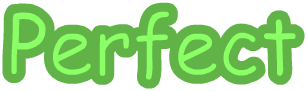
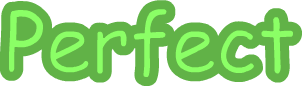
added perfect/great text

diff --git a/Assets/Scripts/BlockBehavior.cs b/Assets/Scripts/BlockBehavior.cs
@@ -32,6 +32,21 @@ public class BlockBehavior : MonoBehaviour {
 	/// </summary>
 	public float ok_distance = .5f;
 
+	/// <summary>
+	/// Manager gameobject, use to access ManageCoroutines Script
+	/// </summary>
+	private GameObject manager;
+
+	/// <summary>
+	/// boolean to see if greatText need to be displayed, default false
+	/// </summary>
+	public static bool displayPerfect;
+
+	/// <summary>
+	/// boolean to see if greatText need to be displayed, default false
+	/// </summary>
+	public static bool displayGreat;
+
     /// <summary>
     /// hide the block when it falls off the bottom
     /// </summary>
@@ -43,7 +58,6 @@ public class BlockBehavior : MonoBehaviour {
             Combo.resetCombo();
             Destroy(this.gameObject);
             Debug.Log(Combo.combo);
-            //  this.gameObject.SetActive(false);
         }
     }
 
@@ -55,6 +69,7 @@ public class BlockBehavior : MonoBehaviour {
 	void Start () {
 		blocks = GameObject.FindGameObjectsWithTag("Block");
 		collider = GetComponent<BoxCollider2D>();
+		manager = GameObject.FindGameObjectWithTag("Manager");
 
 	}
 
@@ -75,30 +90,29 @@ public class BlockBehavior : MonoBehaviour {
 					float distance = calculateDistance(block);
 
                     if (distance <= perfect_distance)
-                    {
-                        Debug.Log("Perfect " + distance);
+                    {                        
+						manager.GetComponent<ManageCoroutines>().setBlockPos(gameObject.transform);
+						displayPerfect = true;
+
                         Combo.combo++;
                         CurrentScore.currentScore = CurrentScore.currentScore + (Combo.combo * 2);
                         Destroy(this.gameObject);
                         Destroy(block.gameObject);
-                        Debug.Log(Combo.combo);
-
                     }
                     else if (distance <= great_distance)
-                    {
-                        Debug.Log("Great " + distance);
+                    {                        
+						manager.GetComponent<ManageCoroutines>().setBlockPos(gameObject.transform);
+						Debug.Log("hhi");
+						displayGreat = true;
+
                         Combo.combo++;
                         CurrentScore.currentScore = CurrentScore.currentScore + (Combo.combo * 1);
                         Destroy(this.gameObject);
                         Destroy(block.gameObject);
-                        Debug.Log(Combo.combo);
-
                     }
                     else if (distance <= ok_distance)
                     {
-                        Debug.Log("OK " + distance);
                         Combo.resetCombo();
-                        Debug.Log(Combo.combo);
                     }
                 }
             }

diff --git a/Assets/Scripts/ManageCoroutines.cs b/Assets/Scripts/ManageCoroutines.cs
@@ -1,0 +1,76 @@
+using System.Collections;
+using System.Collections.Generic;
+using UnityEngine;
+
+public class ManageCoroutines : MonoBehaviour {
+	/// <summary>
+	/// The great text.
+	/// </summary>
+	public GameObject greatText;
+
+	/// <summary>
+	/// The perfect text.
+	/// </summary>
+	public GameObject perfectText;
+
+	/// <summary>
+	/// The block position.
+	/// </summary>
+	private Transform blockPos;
+	// Use this for initialization
+
+	/// <summary>
+	/// initialize blockPos
+	/// </summary>
+	void Start () {
+		blockPos = gameObject.transform;
+	}
+	
+	/// <summary>
+	/// check to see if blocks hit perfect or great
+	/// </summary>
+	void Update () {
+		if(BlockBehavior.displayPerfect){
+			StartCoroutine(DisplayPerfectText(.2f));
+		}
+
+		if(BlockBehavior.displayGreat){
+			StartCoroutine(DisplayGreatText(.2f));
+		}
+	}
+	/// <summary>
+	/// Display the perfect text.
+	/// </summary>
+	/// <returns>The perfect text.</returns>
+	/// <param name="s">S.</param>
+	public IEnumerator DisplayPerfectText(float s)
+	{		
+		perfectText.transform.position = blockPos.transform.position;
+		perfectText.SetActive(true);
+		//Debug.Log(WaitForSeconds(s));
+		yield return new WaitForSeconds(s);
+		BlockBehavior.displayPerfect = false;
+		perfectText.SetActive(false);
+	}
+	/// <summary>
+	/// Display the great text.
+	/// </summary>
+	/// <returns>The great text.</returns>
+	/// <param name="s">S.</param>
+	public IEnumerator DisplayGreatText(float s)
+	{
+		greatText.transform.position = blockPos.transform.position;
+		greatText.SetActive(true);
+		//Debug.Log(WaitForSeconds(s));
+		yield return new WaitForSeconds(s);
+		BlockBehavior.displayGreat = false;
+		greatText.SetActive(false);
+	}
+	/// <summary>
+	/// Sets the block position.
+	/// </summary>
+	/// <param name="obj">Object.</param>
+	public void setBlockPos(Transform obj){
+		blockPos.position = obj.position;
+	}
+}
